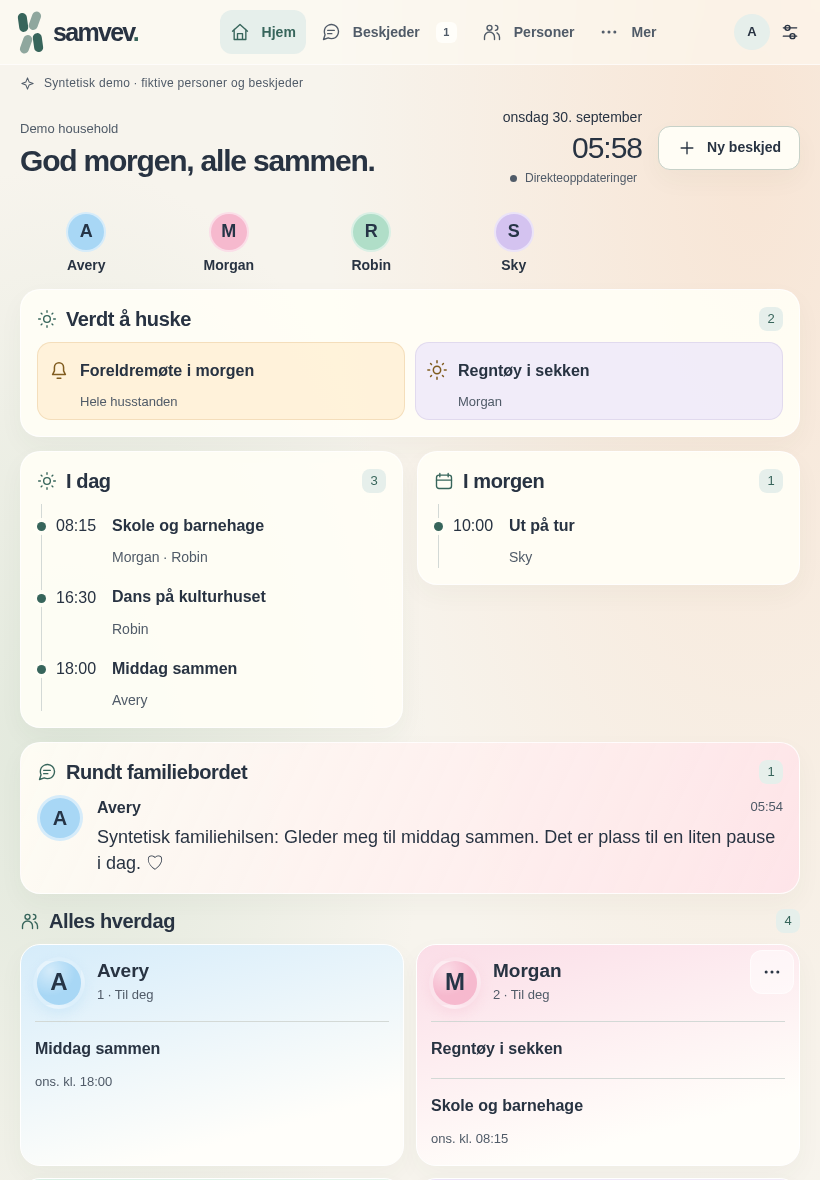
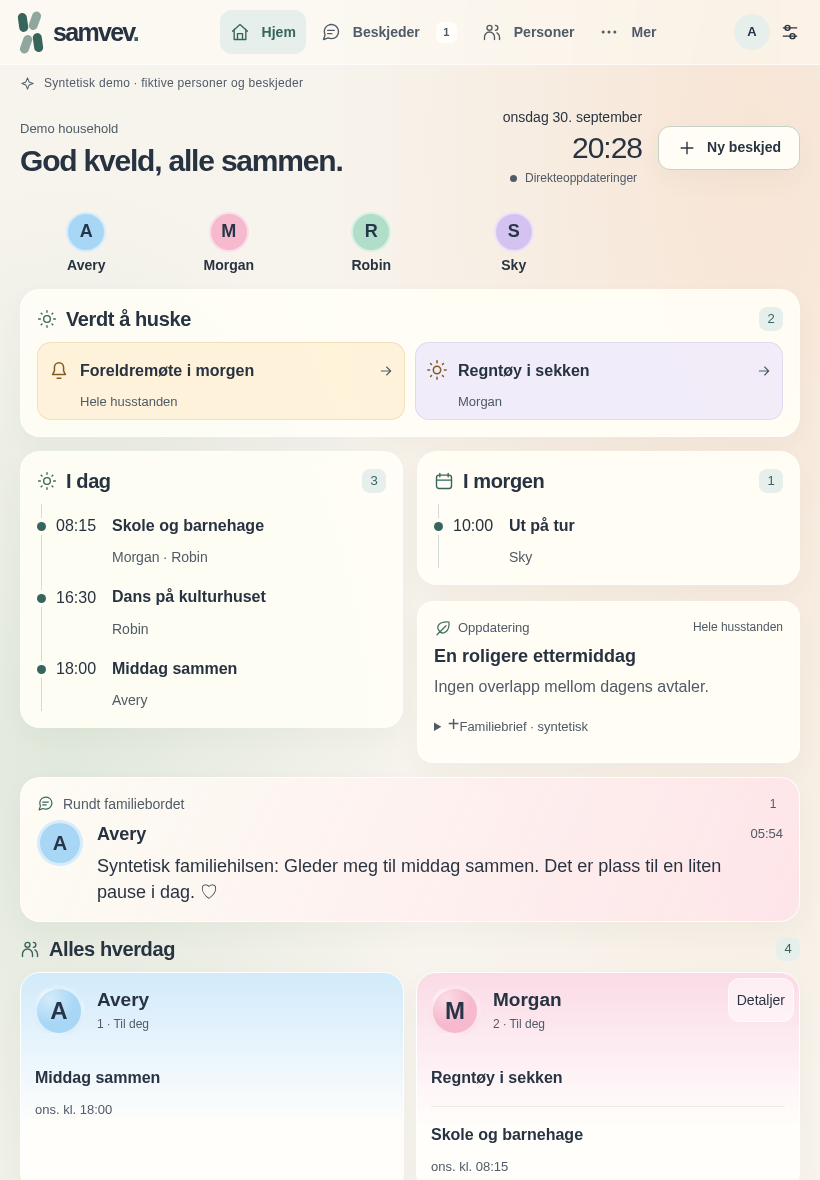
docs(design): record verified M3 design round 3

diff --git a/docs/design/review/ROUND_3_REPORT.md b/docs/design/review/ROUND_3_REPORT.md
@@ -1,0 +1,131 @@
+# M3 design round 3 — 2026-09-30
+
+Activated mailbox: `de14831183115604c368825bc560e76970b8e7c1`.
+Final DCO source: `da31a7d757d81b4a8308b9a41f6239c2367d3952`.
+Initial composition checkpoint: `757f257`; whitespace checkpoint: `f61d2db`.
+Git writes use only `.local/design-review-publish`, feature branch
+`feat/m3-family-hub`; protected root HEAD remains `390f6a6…`.
+
+## Concrete changes and visual comparison
+
+- Dark desktop/landscape: Today and Tomorrow remain distinct neighbours.
+  Tomorrow now groups an existing observation below it; a different existing
+  summary accompanies the human message. No duplicated or fabricated widget.
+  The previous Tomorrow void is replaced with meaningful vertical content.
+- Portrait: Tomorrow/observation ends approximately y763 beside Today at y728;
+  the message follows at y778–922 before detailed person cards. The previous
+  large empty area beneath Tomorrow is resolved without empty panel padding.
+- Both low-height themes retain four names and complete real personal previews,
+  both reminder titles/recipients, an agenda row and the full human message.
+  Light Shelly message ends approximately y727.
+- Both mobile themes retain four identities, two reminders and three complete
+  Today rows. Third row ends y696.02; navigation begins y772: 75.98px clearance
+  (the enclosing agenda card ends approximately y709).
+- Light personal areas have a clearer colour-to-reading-surface transition,
+  calmer rules/metadata and consistent semantic icon accents. Message author,
+  avatar and body now lead the quieter heading; tall desktop body uses 65ch.
+- Dark landscape is unchanged as a local asset; lower navy fade quiets rocky
+  foreground and secondary content, avatar glow is removed, and support cards
+  keep their own content height. No external asset/font/runtime dependency.
+- Reminder arrows sit inside the existing single title button. Person controls
+  show calculated localized “1 til”/“1 more”, or “Detaljer”/“Details” when no
+  entries are hidden. Complete content/provenance remains accessible.
+
+Visual comparison opened both authoritative original PNGs and all 14 Round 2
+images before changes, then inspected ten real candidate viewports. This supports
+better composition/discoverability; it does not establish a new parity score,
+pixel-identical reproduction or ChatGPT Work approval. Dark remains more
+photographic than the reference. Physical Shelly hardware is not certified.
+
+## Iteration and final checks
+
+A real repeated browser finding showed observation disclosure open/focus state
+was lost on portrait-to-mobile regrouping. Final source records open intent at
+semantic summary activation and restores its identity after React commits.
+Item/person dialogs live at a stable parent, resolve current projected IDs,
+and close when selected content expires, withdraws or becomes unavailable.
+
+Earlier ignored helper failures were preserved: reminder selectors included a
+personal duplicate, ordering was checked before render, portrait was incorrectly
+expected to use wide ordering, and transient resize caused an unconfirmed
+8-person overflow. Correct scoped/layout-aware assertions and composition waits
+fixed the helpers without weakening the criteria; fresh diagnostics and all
+14 stress probes have no page overflow. Only the confirmed disclosure bug
+changed product code after the first visual candidate.
+
+Final Node 24 checks in existing QA environment: web TypeScript PASS, web tests
+32/32 PASS. Explicit production build: `bash scripts/design-review-build.sh`.
+Independently verified 164 mounted inputs equal immutable source Git bytes;
+LAN HTML, JS, CSS and existing PNG match build hashes. No installs/restarts.
+
+Final focused LAN browser at `2026-09-30T18:22:42.134Z`: ten normal viewport
+images, five text-transparent diagnostics, failures/errors/outbound requests
+empty. Both themes/five sizes cover real fixture geometry, Axe, 44px controls
+including summaries, NB/EN detail labels, DOM order, system theme, dialog
+Escape/focus through rotation/theme, disclosure Enter/Space and relocation.
+Read-only projected responses test empty/all, empty Tomorrow, long Tomorrow,
+missing observation and 1/4/8 long-name households (14 surface probes).
+Normal Home polling verifies dialog revision/withdrawal/person removal; actual
+local expiry ticking closes selected expired details. These responses are
+browser-only test substitutions, never persistent fixture changes or published
+mock screenshots.
+
+Fresh actual composited-text measurements use every background pixel in real
+text-node Range rectangles, with foreground colours/fonts from those nodes:
+minimum ratios desktop 4.924, mobile 7.763, portrait 7.432, landscape 4.866,
+Shelly 4.735. All meet their applicable 4.5:1 or large-text 3:1 thresholds.
+These are bounded measurements for this fixture/asset, not arbitrary content.
+
+Literal LAN admin/admin, real Home and UI logout pass; preferences are verified
+restored to nb/system. Existing QA-only alias and ordinary hash verification are
+unchanged; no password procedure was run. No full mutating M3 harness was run:
+only presentation/dialog state changed, and focused coverage plus unit tests
+exercise those changes. No API, auth, data flow, schema or migration changed.
+Review tooling is unchanged; its historical test result is not claimed as a new
+Round 3 run. Ignored runtime evidence is under `.local/m3/design-round3/`.
+
+## Final capture and data preservation
+
+Final command: `bash scripts/design-review.sh`. Round
+`20260930182826-da31a7d7-1886d5b2`, captured `2026-09-30T18:28:26.849Z`:
+[latest/manifest.json](latest/manifest.json) records the final source above.
+All 14 real Home PNGs were opened and checked for hashes, dimensions, theme,
+source and four people/nine active items. Ten viewports cover both themes at
+1920×1080, 390×844, 820×1180, 1180×820 and 1280×752. Full-page supplements:
+desktop light 1920×1302, dark 1920×1202; mobile light 390×2687, dark 390×2700.
+The known fixed-nav strip in mobile full-page capture remains a capture artifact;
+normal viewports are primary. No login/error screenshot was published.
+
+Previous latest was archived byte-for-byte under
+`archive/20260930035832-99185975-5a933bde/` (15 files); all 46 older archive
+files are unchanged. Final 164 input hashes and four served assets independently
+match source/build proof, built `2026-09-30T18:19:28.633Z` before capture.
+Manifest `workingTreeDirty:true` honestly reflects review documentation/artifacts,
+without build-source drift. There was no build after capture.
+
+Independent coordinator UI smoke at `2026-09-30T18:30:01.134Z` typed literal
+admin/admin, observed the ordinary internal email/password request, displayed
+real Family Hub with four people/current human message, and used UI logout.
+Browser errors and blocked requests were empty.
+
+The existing synthetic fixture/clock is preserved. Evening greeting/time now
+reflect household time naturally instead of Round 2's morning capture. No new
+message, redating, reseed, provisioning or integration/display mutation occurred.
+Independent before/after aggregates for accounts/households/people/memberships,
+messages, integration connections and items are identical. All authentication
+hash/password-change aggregates are unchanged; admin revision remains 2.
+Projection still contains four people, nine active items and the same human
+message. Account preferences returned to nb/system; normal sessions/audit events
+from authorised login are outside the content-aggregate comparison.
+
+## Files and operational boundaries
+
+Source: family-hub.tsx, home-presentation.ts, home.css, locales en/nb and
+home-presentation.test.ts. Evidence: this report, M1_STATUS.md, all 14 latest
+PNGs/manifest and the automatically archived previous set. Round 1/2 reports,
+mailbox and original references remain unchanged.
+
+No migration. Rollback is a normal signed revert plus explicit checkpoint build;
+existing QA data and admin/admin remain intact. No private data/new secrets.
+Existing qa-db/qa-worker/qa-app stay running. No PR, merge commit, deploy,
+main/force push, tag, release, broad Docker cleanup or Actions dispatch.

diff --git a/docs/implementation/M1_STATUS.md b/docs/implementation/M1_STATUS.md
@@ -1,5 +1,21 @@
 # M1 implementation status
 
+## M3 design round 3 — 2026-09-30
+
+Activated mailbox `de14831`: dark Tomorrow/support column and balanced portrait,
+clear reminder/person detail controls, stronger light identity/message hierarchy
+and calmer dark materials. Final signed source
+`da31a7d757d81b4a8308b9a41f6239c2367d3952` fixes proven disclosure relocation
+focus/open-state loss. Node 24 web check and 32/32 tests pass; complete focused
+LAN QA and fresh actual composited contrast pass. Admin/admin, ordinary hash
+authentication and existing synthetic data are preserved. No mutating M3 harness
+was needed for presentation-only work. All 14 final Home images are opened/hash
+verified, round `20260930182826-da31a7d7-1886d5b2`; post-capture literal
+admin/admin UI login/logout and unchanged content/authentication aggregates pass.
+Evidence is prepared for signed feature-branch publication;
+see [Round 3 evidence and limits](../design/review/ROUND_3_REPORT.md).
+
+
 ## M3 design round 2 — 2026-09-30
 
 The explicitly activated mailbox `127a3b7` is implemented: independent low-height
